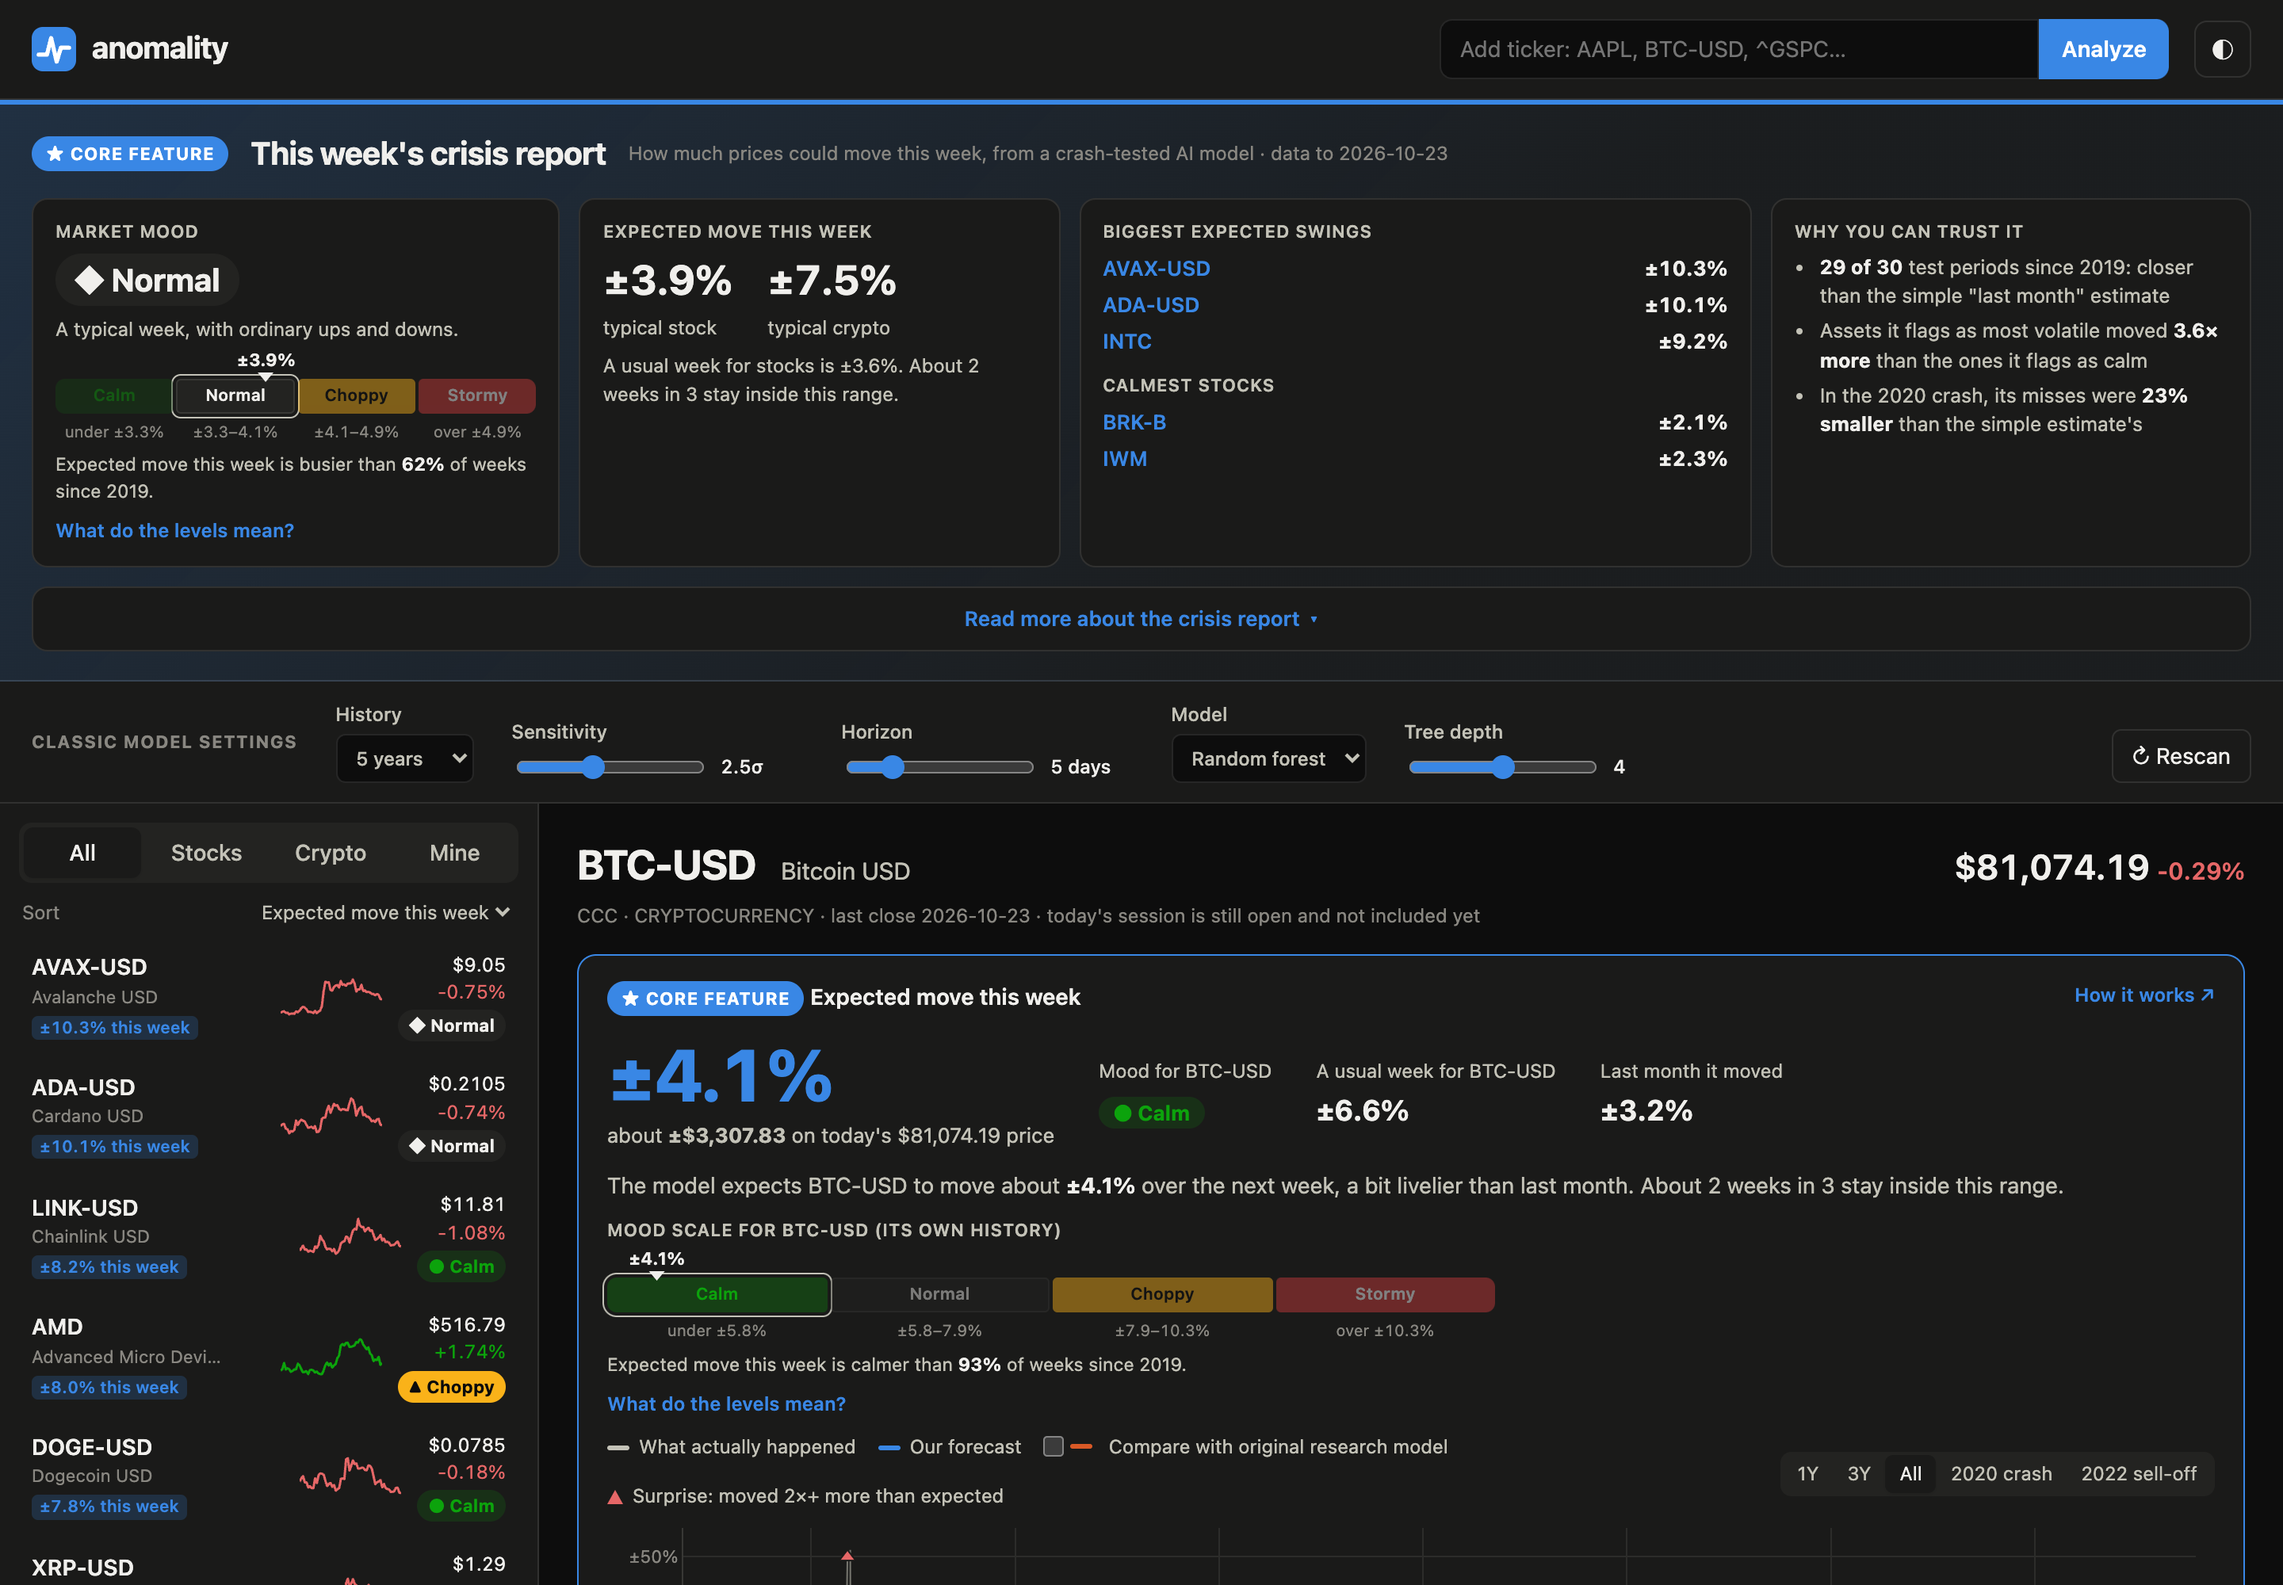
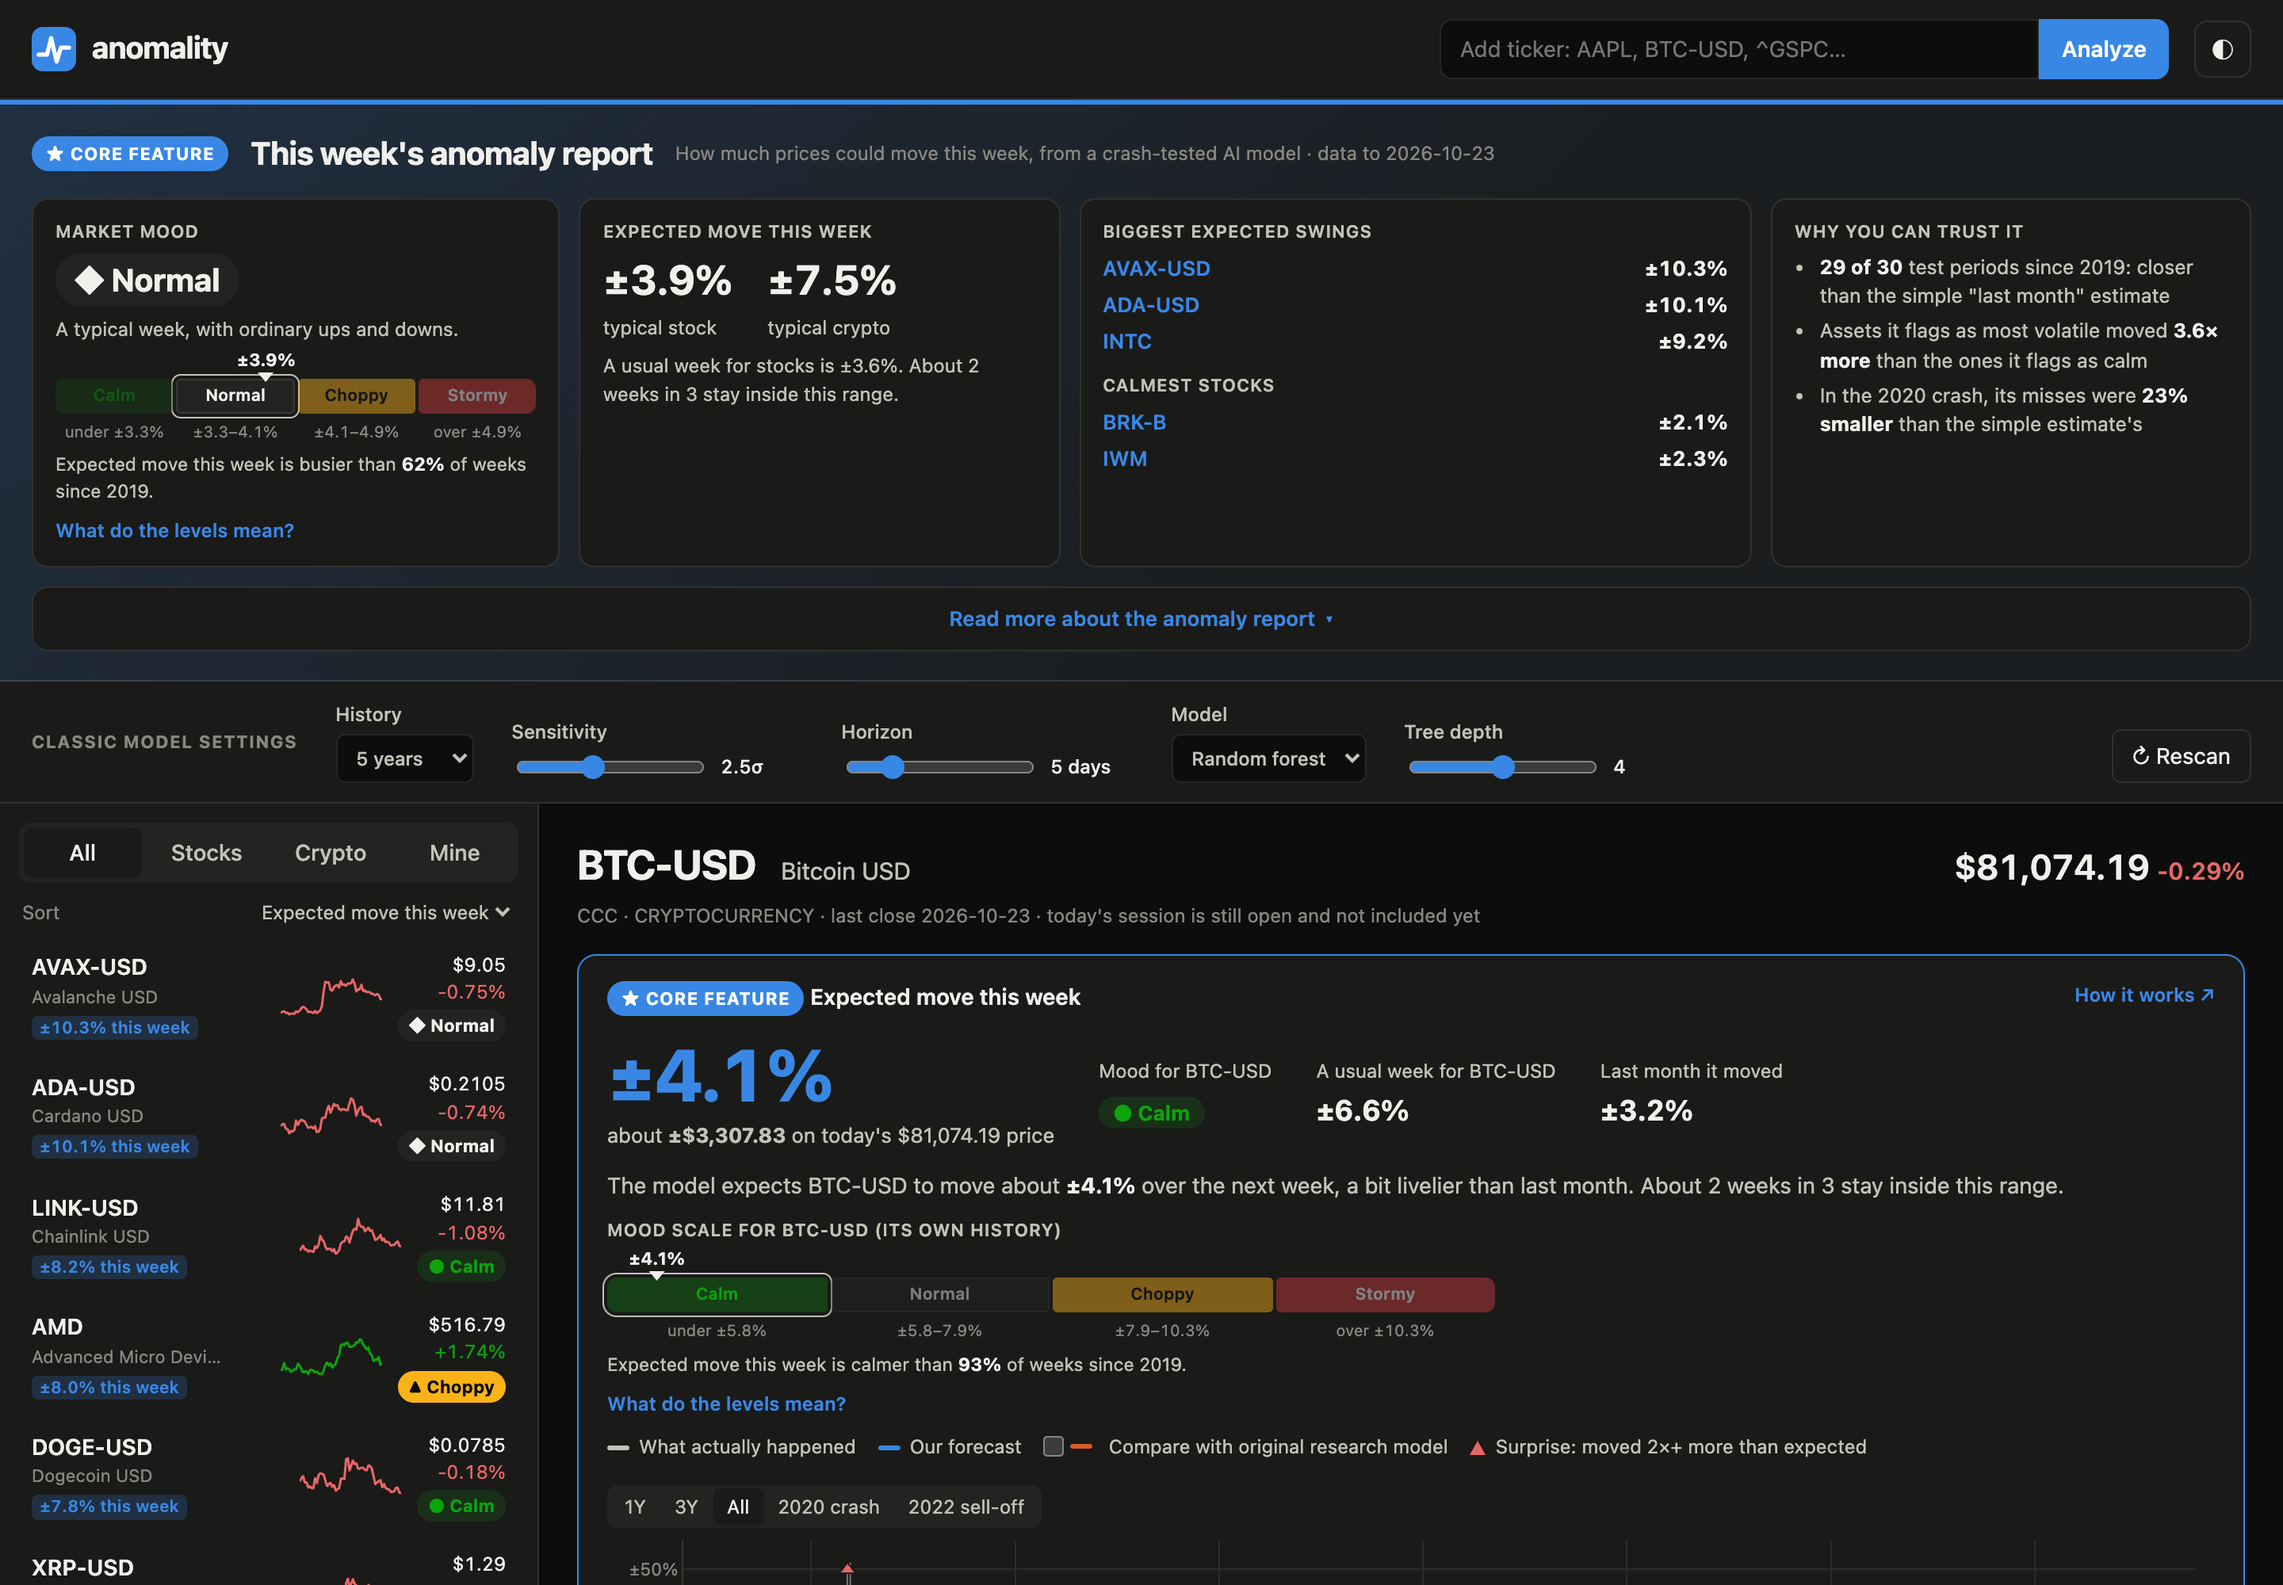
Rename "crisis report" to "anomaly report"
Matches the app's name and stays neutral in calm weeks. Updates the
banner title, the "Read more" button, the README and the screenshots.

diff --git a/static/app.js b/static/app.js
@@ -596,7 +596,7 @@
     el.innerHTML = `
       <div class="hero-head">
         <span class="core-badge">★ Core feature</span>
-        <h2>This week's crisis report</h2>
+        <h2>This week's anomaly report</h2>
         <span class="muted">How much prices could move this week, from a crash-tested AI model · data to ${esc(m.date)}</span>
       </div>
       <div class="hero-grid">
@@ -630,7 +630,7 @@
         </div>
       </div>
       <details class="hero-more" id="report-more" ${state.heroChart ? "open" : ""}>
-        <summary><span class="when-closed">Read more about the crisis report</span><span class="when-open">Hide the full report</span></summary>
+        <summary><span class="when-closed">Read more about the anomaly report</span><span class="when-open">Hide the full report</span></summary>
 
         <section class="report-sec">
           <h3>1. Why this report holds up in a crash</h3>

diff --git a/README.md b/README.md
@@ -1,9 +1,9 @@
 # anomality
 
-**A weekly crisis report for stocks and crypto: how much prices could move this week, from an
+**A weekly anomaly report for stocks and crypto: how much prices could move this week, from an
 AI model built to stay reliable when markets crash.**
 
-![anomality: this week's crisis report](docs/images/product_crisis_report.png)
+![anomality: this week's anomaly report](docs/images/product_anomaly_report.png)
 
 Most forecasting models learn from normal markets and then break down in a crash, exactly
 when you need them. anomality is built on a 2026 research model (RG-ResMoE) that we
@@ -26,7 +26,7 @@ weeks it never saw (May 2019 – Oct 2026, 56 assets, 103,593 forecasts).
 
 ## The product
 
-### This week's crisis report
+### This week's anomaly report
 
 Four plain answers at the top of the app: the **market mood**, the **expected move this
 week** for a typical stock and crypto, the **biggest and calmest expected swings**, and
@@ -62,12 +62,12 @@ to see the crash-proofing at work, here for NVDA in the 2020 crash:
 
 ### The full report, for the curious
 
-**Read more about the crisis report** opens the detail: why the model holds up in a crash
+**Read more about the anomaly report** opens the detail: why the model holds up in a crash
 (a COVID-sized shock looks 10.6× "off the charts" to the original model, 5.1× to ours), the
 full track record, and the model internals (regime gate weights, crisis herding, and the
 research statistics).
 
-![Full crisis report](docs/images/product_full_report.png)
+![Full anomaly report](docs/images/product_full_report.png)
 
 | Dark mode | Phone |
 |---|---|
@@ -80,7 +80,7 @@ flowchart LR
     A["Daily prices<br/>56 stocks, ETFs<br/>and crypto"] --> B["Volatility features<br/><b>log-scaled</b> (our fix)"]
     B --> C["RG-ResMoE<br/>base network + 4 experts<br/>+ regime gate"]
     C --> D["Next-week<br/>volatility forecast"]
-    D --> E["Crisis report<br/>mood · expected move<br/>· surprises"]
+    D --> E["Anomaly report<br/>mood · expected move<br/>· surprises"]
     classDef ours fill:#2a78d6,stroke:#1c5cab,color:#ffffff;
     class B ours;
 ```
@@ -111,7 +111,7 @@ cd Anomality
 ```
 
 The first run installs everything (about a minute) and opens **http://localhost:8000**. The
-trained models ship in `models/`, so the crisis report works straight away. Press `Ctrl+C` to stop.
+trained models ship in `models/`, so the anomaly report works straight away. Press `Ctrl+C` to stop.
 Different port: `PORT=8080 ./run.sh`.
 
 <details>
@@ -142,17 +142,17 @@ uvicorn backend.app:app --port 8000
 |---|---|
 | `Address already in use` | Another program is using port 8000. Run `PORT=8080 ./run.sh` |
 | `permission denied: ./run.sh` | `chmod +x run.sh` |
-| Crisis report missing | Check that `models/rg_resmoe.pt`, `models/rg_resmoe_paper.pt` and `models/serving_*.csv.gz` exist, or retrain |
+| Anomaly report missing | Check that `models/rg_resmoe.pt`, `models/rg_resmoe_paper.pt` and `models/serving_*.csv.gz` exist, or retrain |
 | Yellow "synthetic demo data" banner | Yahoo Finance couldn't be reached. Check your connection and click ↻ Rescan |
 | `Symbol not found` | Use Yahoo's format, e.g. `BTC-USD` not `BTC`, `BHP.AX` for Australian stocks |
-| "Not in the training universe yet" | The crisis report covers the 56 trained assets; other tickers get the classic analysis only |
+| "Not in the training universe yet" | The anomaly report covers the 56 trained assets; other tickers get the classic analysis only |
 | `NotOpenSSLWarning` on macOS | Harmless; ignore it |
 
 </details>
 
 ## Also inside: classic anomaly detection
 
-Below the crisis report, every asset also gets the original anomaly toolkit: z-score and
+Below the anomaly report, every asset also gets the classic detection toolkit: z-score and
 Isolation Forest anomaly flags on the price chart, and a random forest / decision tree that
 estimates the chance of an unusual move, with its decision path and the full interactive tree.
 It works for any Yahoo Finance ticker.
@@ -174,7 +174,7 @@ It works for any Yahoo Finance ticker.
 
 | Endpoint | Returns |
 |---|---|
-| `GET /api/regime/market` | This week's crisis report: mood and scale, expected moves, biggest swings, track record |
+| `GET /api/regime/market` | This week's anomaly report: mood and scale, expected moves, biggest swings, track record |
 | `GET /api/regime/{symbol}` | One asset: expected move, mood and scale, history, accuracy, surprises |
 | `GET /api/analyze/{symbol}` | Classic anomaly detection and decision model for any ticker |
 | `GET /api/scan?symbols=…` | Classic model summary for several tickers |
